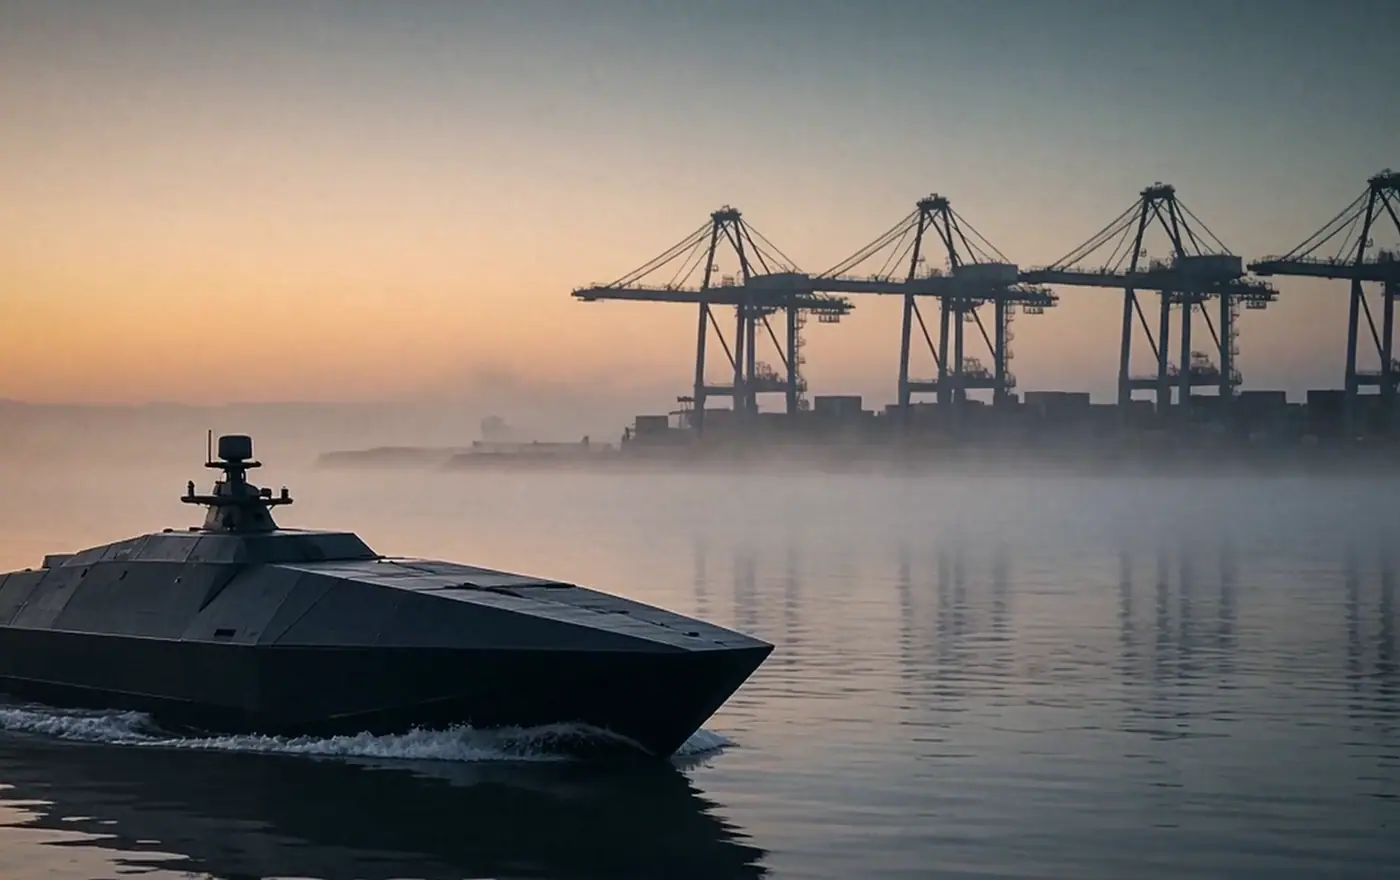
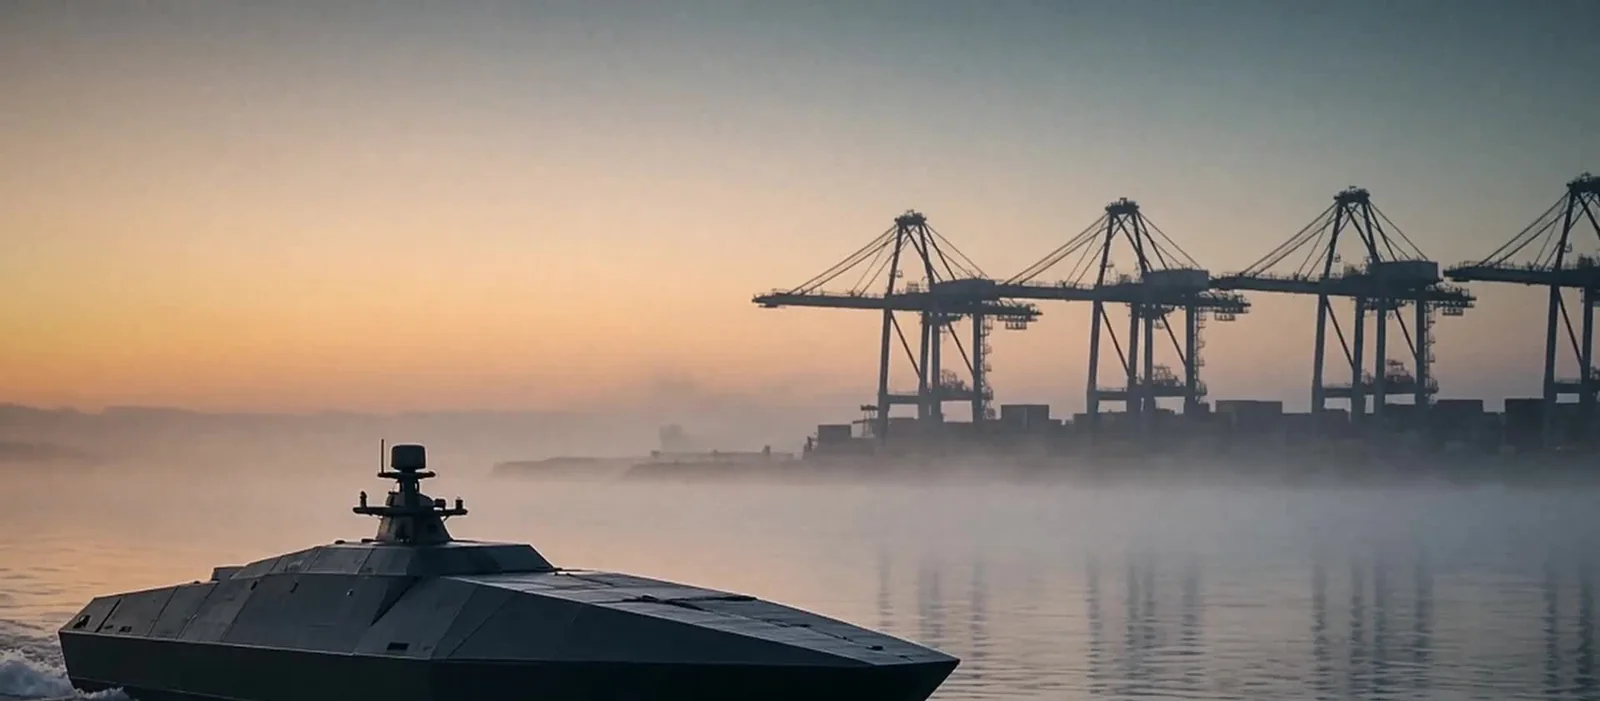
Remove film captions from the use-case cards and tighten the hero.
The distributors card uses the network-wall still, the wallet icon is no longer a card, and the stat strip sits with the headline instead of at the bottom of the viewport.

diff --git a/app/globals.css b/app/globals.css
@@ -3254,6 +3254,7 @@ header.siteHeader {
   min-height: 100dvh;
   display: flex;
   flex-direction: column;
+  justify-content: center;
 }
 .cineCopy { max-width: 1072px; }
 .cineHero .hpHeroKicker {
@@ -3312,7 +3313,7 @@ header.siteHeader {
   line-height: 1.4;
   color: rgba(232, 240, 236, 0.8);
 }
-.cineFoot { margin-top: auto; padding-top: 24px; }
+.cineFoot { margin-top: 36px; padding-top: 0; }
 .cineStats {
   display: grid;
   grid-template-columns: repeat(3, minmax(0, 1fr));
@@ -3505,7 +3506,8 @@ header.siteHeader {
   .hpCapGrid,
   .hpBuiltGrid,
   .hpTiles { grid-template-columns: 1fr; }
-  .cineInner { padding: 96px 16px 16px; }
+  .cineInner { justify-content: flex-start; padding: 96px 16px 20px; }
+  .cineFoot { margin-top: auto; }
   .cineHero .cineSub { font-size: 15px; }
   .cineStats { gap: 0; max-width: none; }
   .cineStats span { font-size: 11px; }

diff --git a/components/RoutingDiagram.tsx b/components/RoutingDiagram.tsx
@@ -221,8 +221,9 @@ function DestIcon({ name, x, y }: { name: "bank" | "card" | "wallet" | "machine"
       ) : null}
       {name === "wallet" ? (
         <>
-          <rect x="1.5" y="4" width="15" height="11" rx="1.6" {...common} />
-          <path d="M1.5 8h15" {...common} />
+          <path d="M1.6 6.2h12.2A1.4 1.4 0 0 1 15.2 7.6V13a1.4 1.4 0 0 1-1.4 1.4H3A1.4 1.4 0 0 1 1.6 13V6.2z" {...common} />
+          <path d="M1.6 6.2 3.4 3.6h8.4l1.8 2.6" {...common} />
+          <circle cx="12.1" cy="10" r="0.95" {...common} />
         </>
       ) : null}
       {name === "machine" ? (

diff --git a/components/LineIcon.tsx b/components/LineIcon.tsx
@@ -33,9 +33,9 @@ function Glyph({ name }: { name: IconName }) {
   if (name === "wallet") {
     return (
       <>
-        <rect x="3" y="7" width="18" height="12" rx="2" {...common} />
-        <path d="M3 11h18" {...common} />
-        <path d="M15 14.2h3.2" {...common} />
+        <path d="M4 9.2h14.2A1.8 1.8 0 0 1 20 11v6.2a1.8 1.8 0 0 1-1.8 1.8H5.8A1.8 1.8 0 0 1 4 17.2V9.2z" {...common} />
+        <path d="M4 9.2 6.4 6h9.4L18.2 9.2" {...common} />
+        <circle cx="16.1" cy="13.4" r="1.15" {...common} />
       </>
     );
   }
